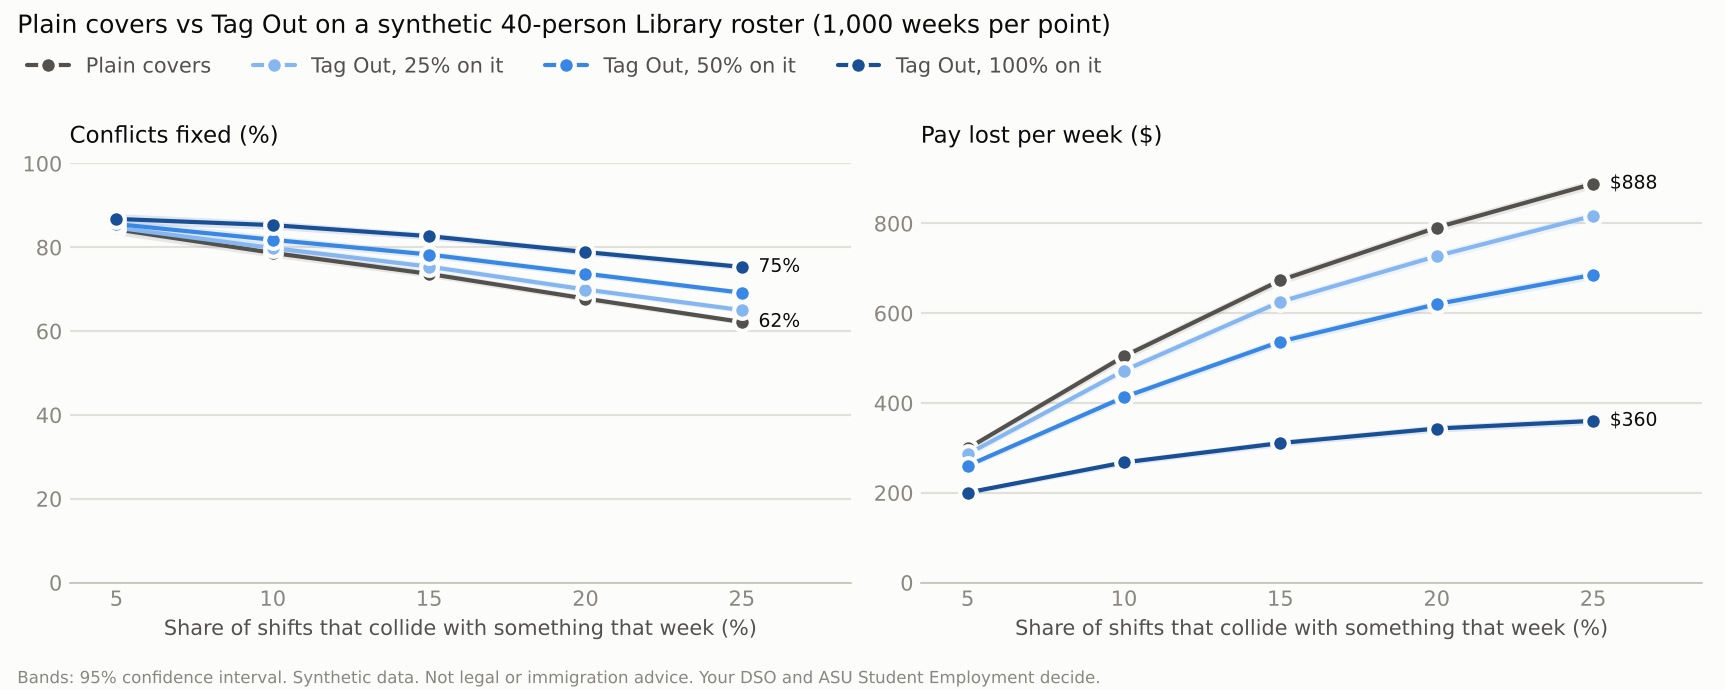
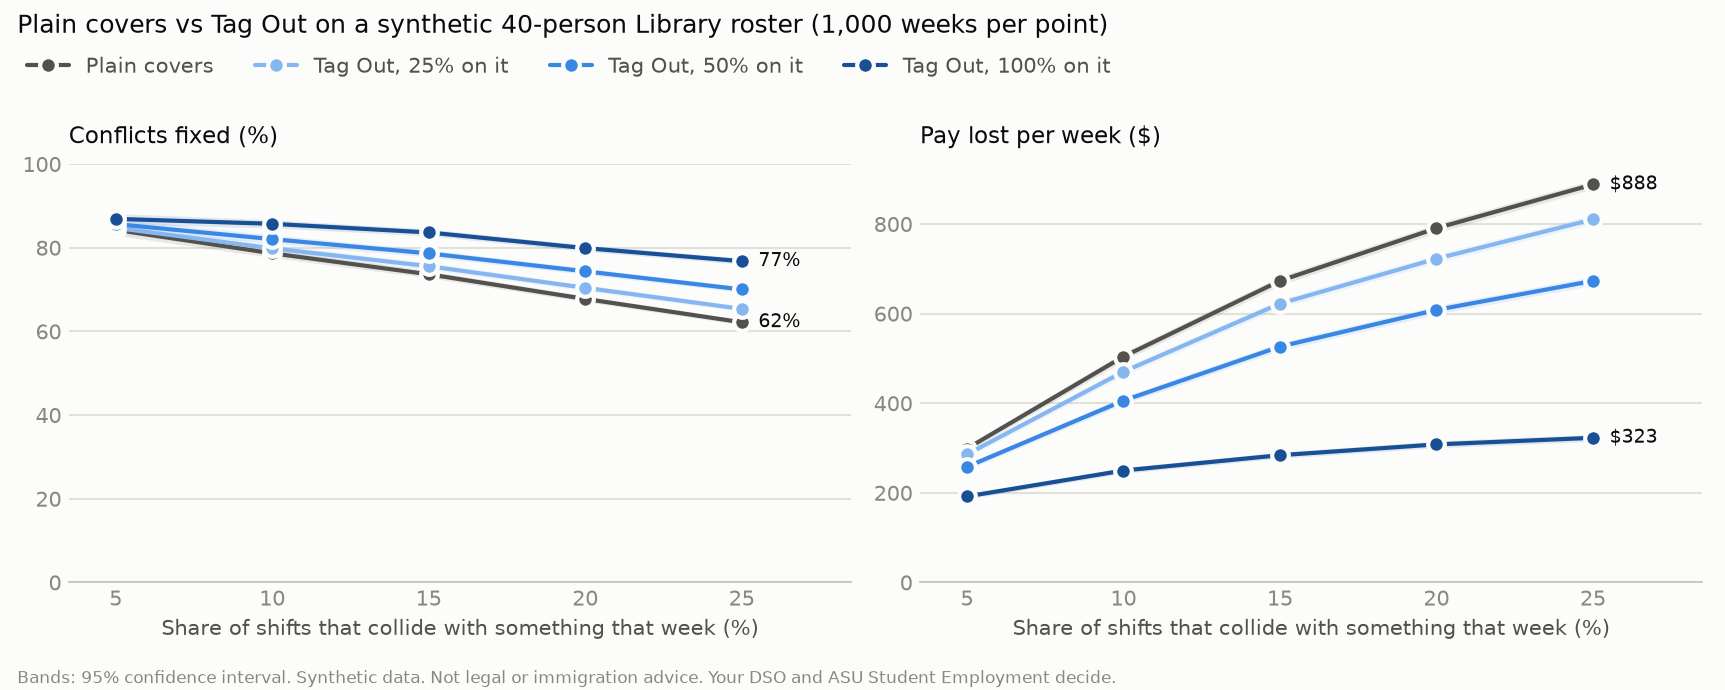
Standard TTC (passers leave with their shift) in broker and simulator; live timings; honest borderline go/no-go; simulation.json for the dashboard

diff --git a/sim/simulate.py b/sim/simulate.py
@@ -10,6 +10,7 @@ chains from broker/ttc.py, and every final schedule is re-checked with rulebook.
 from __future__ import annotations
 
 import argparse
+import json
 import os
 import random
 import statistics
@@ -55,7 +56,7 @@ class Params:
     fri_evening_avoid_share: float = 0.40  # task brief: 40% never take Friday-evening shifts
     wants_hours_share: float = 0.30  # task brief: 30% want more hours; only they act as cover helpers
     helper_extra_shifts: int | None = 2  # assumption: someone who wants hours takes at most 2 extra shifts a week
-    release_passers: bool = False  # broker/ttc.py as it is: ttc() stops at the first round where no ring closes
+    release_passers: bool = True  # broker/ttc.py: a passer keeps their shift and leaves; the rest re-point (standard TTC)
     conflict_rates: tuple[float, ...] = (0.05, 0.10, 0.15, 0.20, 0.25)  # task brief sweep
     central_rate: float = 0.15  # task brief: central conflict rate
     adoption: tuple[float, ...] = (0.25, 0.50, 1.00)  # task brief: share of the roster on Tag Out
@@ -231,14 +232,14 @@ def swap_prefs(plan: Plan, agents: list[str], cap: int | None) -> dict[str, list
     return prefs
 
 
-def rings(plan: Plan, agents: list[str], cap: int | None, release_passers: bool = False) -> Plan:
-    """broker.ttc.ttc over the picks. With release_passers, a shift whose holder passes is withdrawn and TTC runs
-    again on the rest (standard TTC with outside options); without it, one ttc() call, as the broker does today."""
+def rings(plan: Plan, agents: list[str], cap: int | None, release_passers: bool = True) -> Plan:
+    """broker.ttc.ttc over the picks. With release_passers (the broker's behaviour), a shift whose holder passes is
+    withdrawn and TTC runs again on the rest (standard TTC with outside options); without it, a single pass."""
     prefs = swap_prefs(plan, agents, cap)
     remaining = list(agents)
     while remaining:
         cycles, history = ttc({a: [b for b in prefs[a] if b in remaining] for a in remaining},
-                              {a: a for a in remaining})
+                              {a: a for a in remaining}, release_passers=False)  # this loop does the release
         for cyc in cycles:  # [a, b, c]: a's holder takes b, b's holder takes c, c's holder takes a
             moves = merge([(plan.holder[x], cyc[(j + 1) % len(cyc)], x) for j, x in enumerate(cyc)])
             if commit(plan, moves, cap):
@@ -274,7 +275,7 @@ def cover_chains(plan: Plan, adopters: set[str], cap: int | None) -> Plan:
 
 
 def tag_out(week: Week, adopters: set[str], cap: int | None, plain: Plan,
-            release_passers: bool = False) -> tuple[Plan, bool]:
+            release_passers: bool = True) -> tuple[Plan, bool]:
     """Rings first (nobody loses pay), then chains, then plain covers for whatever is left.
 
     The broker never proposes a plan worse than plain covers: if rings-first fixes fewer conflicts or loses more pay
@@ -536,7 +537,7 @@ def variants(p: Params) -> dict[str, Params]:
             "helpers take any number of shifts the rules allow": replace(p, helper_extra_shifts=None),
             "no clustering (every conflict is an individual event)": replace(p, clustered_share=0.0),
             "heavy clustering (80% of conflicts are shared exam evenings)": replace(p, clustered_share=0.8),
-            "broker withdraws passers' shifts and re-runs TTC": replace(p, release_passers=True)}
+            "single TTC pass (passers' shifts stay in the pool)": replace(p, release_passers=False)}
 
 
 def run_all(p: Params, weeks: int, seed: int, workers: int = 1) -> dict:
@@ -697,6 +698,18 @@ def report(p: Params, res: dict, weeks: int, seed: int, took: float, workers: in
                     "margin is thin." if ci_low < p.go_points else "")
                  + (" The margin depends on assumptions: changed one at a time, these push it under "
                     f"{p.go_points:g} points: " + "; ".join(under) + " (see Sensitivity)." if under else ""))
+    elif central["extra"][0] + central["extra"][1] >= p.go_points:
+        lo, hi = central["extra"][0] - central["extra"][1], central["extra"][0] + central["extra"][1]
+        L.append(f"**Go/no-go: borderline.** At a {rate} conflict rate with {adopt} of the roster on Tag Out, "
+                 f"rings and chains add {central['extra'][0]:.2f} percentage points over plain covers (95% CI "
+                 f"{lo:.1f} to {hi:.1f}). The {p.go_points:g}-point bar in docs/DESIGN.md section 7 sits inside "
+                 "that interval, so the simulation neither clears it nor misses it with confidence. "
+                 "Recommendation: lead with the Sunday check, plain covers and the pay that trades save (below), "
+                 "and present rings as the reason that pay is saved rather than as a bigger fix rate.")
+        L += ["", f"What rings and chains clearly change is pay: in the same scenario pay lost per week falls from "
+              f"${central['plain_pay'][0]:,.0f} to ${central['tag_pay'][0]:,.0f} ({pay_cut:.0f}% less), because a "
+              "swap fixes a conflict without anyone losing the shift. The points figure moves with the assumptions; "
+              f"changed one at a time (see Sensitivity): {moves}."]
     else:
         L.append(f"**Go/no-go: no-go on rings as the headline.** At a {rate} conflict rate with {adopt} of the "
                  f"roster on Tag Out, rings and chains add {central['extra'][0]:.1f} percentage points over plain "
@@ -792,9 +805,9 @@ def report(p: Params, res: dict, weeks: int, seed: int, took: float, workers: in
           "everyone in them would accept, before any covers. It is exhaustive, so it runs only in weeks with at "
           f"most {ORACLE_MAX_AGENTS} conflicted shifts on Tag Out ({adopt} adoption). TTC can also close rings "
           "longer than 4, so in a few weeks it can beat this bound. TTC follows each person's ranked picks "
-          "instead of maximising the count, and `ttc()` stops at the first round where nothing closes, so it "
-          "fixes fewer than the bound; the sensitivity row \"broker withdraws passers' shifts and re-runs TTC\" "
-          "shows how much of that gap a multi-round broker closes.", "",
+          "instead of maximising the count, so it can fix fewer than the bound; passers leave with their own "
+          "shift and the rest re-point (standard TTC with outside options). The sensitivity row \"single TTC "
+          "pass\" shows what that release is worth.", "",
           "| Conflict rate | Weeks with the bound | TTC ring fixes / week | Best rings of <= 4 / week |",
           "|---|---|---|---|"]
     for r in p.conflict_rates:
@@ -876,6 +889,17 @@ def main() -> None:
     plot(p, res, args.weeks)
     DOC.write_text(report(p, res, args.weeks, args.seed, took, args.workers), encoding="utf-8")
     c = summary(res["cells"][p.central_rate], 1.0)
+    b = res["break"]
+    winter = {k: mean_ci([row[k] for row in b])[0] for k in ("wanted", "handed", "kept", "unchecked_breaks")}
+    (DOC.parent / "simulation.json").write_text(json.dumps({
+        "weeks": args.weeks, "seed": args.seed, "roster": 40, "conflict_rate": p.central_rate,
+        "plain_pct": round(c["plain"][0], 1), "tagout_pct": round(c["tag"][0], 1),
+        "extra_points": round(c["extra"][0], 1), "extra_ci": round(c["extra"][1], 1),
+        "plain_pay_lost": round(c["plain_pay"][0]), "tagout_pay_lost": round(c["tag_pay"][0]),
+        "winter": {"wanted": round(winter["wanted"], 1), "handed": round(winter["handed"], 1),
+                   "kept": round(winter["kept"]), "rule_breaks": sum(row["problems"] for row in b),
+                   "unchecked_breaks": round(winter["unchecked_breaks"], 2)},
+    }, indent=1), encoding="utf-8")
     print(f"plain covers {c['plain'][0]:.1f}%, Tag Out {c['tag'][0]:.1f}%, +{c['extra'][0]:.1f} points "
           f"({took:.0f} s) -> {DOC.relative_to(ROOT)}, {IMG.relative_to(ROOT)}")
 

diff --git a/broker/ttc.py b/broker/ttc.py
@@ -45,11 +45,14 @@ def ttc(
     prefs: Mapping[str, list[str]],
     owner_of: Mapping[str, str],
     picker: Callable[[str, set[str]], str | None] | None = None,
+    release_passers: bool = True,
 ) -> tuple[list[list[str]], list[dict[str, str | None]]]:
-    """Run TTC rounds until no new cycle closes.
+    """Run TTC rounds until nothing more can close.
 
     `prefs[a]` is a's ranked list of acceptable items (used when no `picker` is given). `picker(a, open_items)`
-    lets a live mascot answer each round itself. Returns (cycles, the picks of every round).
+    lets a live mascot answer each round itself. With `release_passers` (standard TTC with outside options), an
+    agent who passes keeps their own shift and leaves, so whoever pointed at it can re-point next round.
+    Returns (cycles, the picks of every round).
     """
     active = {a for a in prefs if any(o == a for o in owner_of.values())}
     open_items = {i for i, o in owner_of.items() if o in active}
@@ -66,7 +69,12 @@ def ttc(
         history.append(points)
         found = find_cycles(points, owner_of)
         if not found:
-            break
+            passers = {a for a, i in points.items() if i is None}
+            if not release_passers or not passers or passers == active:
+                break
+            active -= passers
+            open_items -= {i for i, o in owner_of.items() if o in passers}
+            continue
         for cyc in found:
             cycles.append(cyc)
             for a in cyc:

diff --git a/broker/app.py b/broker/app.py
@@ -143,6 +143,15 @@ def create_app(net: Net | None = None, reg: dict | None = None, timing: Timing |
             await net.post(f"{reg['steward']}/admin/auto", body)
         return {"ok": True}
 
+    @app.post("/admin/timing")
+    async def set_timing(body: dict) -> dict:
+        if not debug():
+            raise HTTPException(403)
+        for k in ("pick_deadline", "ask_window", "vote_timeout", "between"):
+            if k in body:
+                setattr(engine.timing, k, float(body[k]))
+        return engine.timing.__dict__
+
     @app.get("/admin/judge")
     async def judge() -> dict:
         if not debug():
@@ -190,7 +199,9 @@ def create_app(net: Net | None = None, reg: dict | None = None, timing: Timing |
 
 
 def _timing_from_env() -> Timing:
-    return Timing.fast() if os.environ.get("TAGOUT_FAST") == "1" else Timing()
+    if os.environ.get("TAGOUT_FAST") == "1":
+        return Timing.fast()
+    return Timing.live() if os.environ.get("TAGOUT_MODE") == "live" else Timing()
 
 
 app = create_app(timing=_timing_from_env()) if os.environ.get("TAGOUT_ROLE") == "broker" else None

diff --git a/tests/test_flow.py b/tests/test_flow.py
@@ -44,8 +44,12 @@ async def test_week_ring_cover_and_honest_open_shift(system):
     assert "counter_window" in types, "round 1 found no cycle; the counter-offer round closed it"
     ask = [m for m in system.phone("ana") if m["kind"] == "ask"]
     assert ask and "gym" in ask[0]["text"]
-    picks = [e for e in system.bus.history if e["type"] == "picks" and e["phase"] == "swap"]
-    assert picks[0]["picks"]["ana"] is None and picks[1]["picks"]["ana"] == "library-fri-1030-1000"
+    picks = [e["picks"] for e in system.bus.history if e["type"] == "picks" and e["phase"] == "swap"]
+    ana = [pk["ana"] for pk in picks if "ana" in pk]
+    assert ana[0] is None and ana[-1] == "library-fri-1030-1000", "passed first, counter-offered after asking"
+    window = next(i for i, e in enumerate(system.bus.history) if e["type"] == "counter_window")
+    cycle = next(i for i, e in enumerate(system.bus.history) if e["type"] == "cycle")
+    assert window < cycle
 
     ben = next(m for m in system.phone("ben") if m["kind"] == "confirm")
     assert "17 of your 20 hours" in ben["text"]

diff --git a/broker/engine.py b/broker/engine.py
@@ -42,6 +42,11 @@ class Timing:
     def fast(cls) -> Timing:
         return cls(0.0, 0.05, 5.0, 0.0)
 
+    @classmethod
+    def live(cls) -> Timing:
+        """Real people: a minute to answer their mascot's question, five minutes to confirm."""
+        return cls(2.0, 60.0, 300.0, 1.0)
+
 
 @dataclass
 class Txn:
@@ -130,7 +135,14 @@ class Engine:
             found = find_cycles(picks, items)
             it += 1
             if not found:
-                return cycles, it
+                # standard TTC: a passer keeps their own shift and leaves; whoever pointed at it re-points
+                passers = {a for a, i in picks.items() if i is None}
+                if not passers or passers == active:
+                    return cycles, it
+                self.bus.emit("released", round_id=round_id, agents=sorted(passers))
+                for a in passers:
+                    items.pop(item_of[a], None)
+                continue
             for c in found:
                 cycles.append(c)
                 self.bus.emit("cycle", round_id=round_id, members=c,

diff --git a/docs/SIMULATION.md b/docs/SIMULATION.md
@@ -1,13 +1,13 @@
 # Simulation: plain covers vs Tag Out rings and chains
 
-**Go/no-go: no-go on rings as the headline.** At a 15% conflict rate with 100% of the roster on Tag Out, rings and chains add 9.0 percentage points over plain covers (95% CI ± 0.5), under the 10-point bar in docs/DESIGN.md section 7. Recommendation: lead with "Sunday check + plain covers + Winter Break Handoff" and show rings as a bonus.
+**Go/no-go: borderline.** At a 15% conflict rate with 100% of the roster on Tag Out, rings and chains add 10.00 percentage points over plain covers (95% CI 9.5 to 10.5). The 10-point bar in docs/DESIGN.md section 7 sits inside that interval, so the simulation neither clears it nor misses it with confidence. Recommendation: lead with the Sunday check, plain covers and the pay that trades save (below), and present rings as the reason that pay is saved rather than as a bigger fix rate.
 
-What rings and chains do change is pay: in the same scenario pay lost per week falls from $673 to $311 (54% less), because a swap fixes a conflict without anyone losing the shift. The points figure moves with the assumptions; changed one at a time (see Sensitivity): helpers take at most 1 extra shift: 17.9; helpers take any number of shifts the rules allow: 7.3; no clustering (every conflict is an individual event): 4.4; heavy clustering (80% of conflicts are shared exam evenings): 9.1; broker withdraws passers' shifts and re-runs TTC: 10.0.
+What rings and chains clearly change is pay: in the same scenario pay lost per week falls from $673 to $284 (58% less), because a swap fixes a conflict without anyone losing the shift. The points figure moves with the assumptions; changed one at a time (see Sensitivity): helpers take at most 1 extra shift: 19.5; helpers take any number of shifts the rules allow: 8.2; no clustering (every conflict is an individual event): 4.5; heavy clustering (80% of conflicts are shared exam evenings): 11.3; single TTC pass (passers' shifts stay in the pool): 9.0.
 
-- Typical case (15% conflicts, 100% adoption, 1,000 weeks): plain covers fix 73.7% ± 0.9 of conflicts; Tag Out fixes 82.7% ± 0.9; rings and chains add 9.0 points ± 0.5. Pay lost per week drops from $673 ± 10 to $311 ± 8.
+- Typical case (15% conflicts, 100% adoption, 1,000 weeks): plain covers fix 73.7% ± 0.9 of conflicts; Tag Out fixes 83.7% ± 0.8; rings and chains add 10.0 points ± 0.5. Pay lost per week drops from $673 ± 10 to $284 ± 7.
 - Worst case, same scenario: in at least 1 week in 20, rings and chains add nothing. Tag Out never fixes fewer than plain covers, because the broker keeps the plain-cover plan when that plan is better.
-- Worst case in the whole sweep: 5% conflicts with 25% adoption, where rings and chains add 0.4 points ± 0.1. At 15% conflicts with only 25% of the roster on Tag Out they add 1.7 points ± 0.2: rings need most of a roster on board.
-- Pitch line (synthetic): "In our simulation of a 40-person roster, plain covers fixed 74% of conflicts; trades fixed 9 percentage points more, and students lost 54% less pay."
+- Worst case in the whole sweep: 5% conflicts with 25% adoption, where rings and chains add 0.5 points ± 0.2. At 15% conflicts with only 25% of the roster on Tag Out they add 1.9 points ± 0.2: rings need most of a roster on board.
+- Pitch line (synthetic): "In our simulation of a 40-person roster, plain covers fixed 74% of conflicts; trades fixed 10 percentage points more, and students lost 58% less pay."
 
 ![Conflicts fixed and pay lost by conflict rate and adoption](img/simulation.png)
 
@@ -17,21 +17,21 @@ Mean ± 95% confidence interval over the simulated weeks, as a share of each wee
 
 | Conflict rate (measured) | Conflicts / week | On Tag Out | Plain covers fix | Tag Out fixes | Extra (points) | Fixed by a ring | Fixed by a chain |
 |---|---|---|---|---|---|---|---|
-| 5% (5.1%) | 6.1 | 25% | 84.3% ± 1.3 | 84.7% ± 1.3 | 0.4 ± 0.1 | 2.6% ± 0.5 | 1.9% ± 0.5 |
-| 5% (5.1%) | 6.1 | 50% | 84.3% ± 1.3 | 85.5% ± 1.3 | 1.3 ± 0.3 | 8.2% ± 1.0 | 6.5% ± 0.9 |
-| 5% (5.1%) | 6.1 | 100% | 84.3% ± 1.3 | 86.8% ± 1.3 | 2.5 ± 0.4 | 20.5% ± 1.6 | 17.7% ± 1.5 |
-| 10% (10.1%) | 12.1 | 25% | 78.7% ± 1.0 | 79.8% ± 1.0 | 1.2 ± 0.2 | 5.1% ± 0.6 | 2.6% ± 0.4 |
-| 10% (10.1%) | 12.1 | 50% | 78.7% ± 1.0 | 81.8% ± 1.0 | 3.1 ± 0.3 | 14.0% ± 0.9 | 8.9% ± 0.8 |
-| 10% (10.1%) | 12.1 | 100% | 78.7% ± 1.0 | 85.3% ± 1.0 | 6.6 ± 0.5 | 32.4% ± 1.3 | 24.1% ± 1.3 |
-| 15% (15.2%) | 18.1 | 25% | 73.7% ± 0.9 | 75.4% ± 0.8 | 1.7 ± 0.2 | 6.1% ± 0.5 | 2.7% ± 0.4 |
-| 15% (15.2%) | 18.1 | 50% | 73.7% ± 0.9 | 78.3% ± 0.9 | 4.6 ± 0.3 | 16.3% ± 0.8 | 9.2% ± 0.6 |
-| 15% (15.2%) | 18.1 | 100% | 73.7% ± 0.9 | 82.7% ± 0.9 | 9.0 ± 0.5 | 37.9% ± 1.1 | 23.2% ± 1.0 |
-| 20% (20.0%) | 23.9 | 25% | 67.8% ± 0.7 | 69.9% ± 0.7 | 2.2 ± 0.2 | 6.5% ± 0.4 | 2.8% ± 0.3 |
-| 20% (20.0%) | 23.9 | 50% | 67.8% ± 0.7 | 73.7% ± 0.8 | 5.9 ± 0.3 | 17.1% ± 0.7 | 9.6% ± 0.6 |
-| 20% (20.0%) | 23.9 | 100% | 67.8% ± 0.7 | 78.9% ± 0.8 | 11.1 ± 0.5 | 38.8% ± 0.9 | 22.8% ± 0.9 |
-| 25% (25.0%) | 29.7 | 25% | 62.2% ± 0.6 | 65.0% ± 0.6 | 2.8 ± 0.2 | 6.7% ± 0.4 | 2.9% ± 0.3 |
-| 25% (25.0%) | 29.7 | 50% | 62.2% ± 0.6 | 69.2% ± 0.7 | 7.0 ± 0.3 | 17.6% ± 0.6 | 9.6% ± 0.5 |
-| 25% (25.0%) | 29.7 | 100% | 62.2% ± 0.6 | 75.3% ± 0.8 | 13.1 ± 0.5 | 38.2% ± 0.8 | 23.2% ± 0.8 |
+| 5% (5.1%) | 6.1 | 25% | 84.3% ± 1.3 | 84.7% ± 1.3 | 0.5 ± 0.2 | 2.8% ± 0.6 | 1.7% ± 0.5 |
+| 5% (5.1%) | 6.1 | 50% | 84.3% ± 1.3 | 85.7% ± 1.3 | 1.4 ± 0.3 | 10.1% ± 1.1 | 4.7% ± 0.8 |
+| 5% (5.1%) | 6.1 | 100% | 84.3% ± 1.3 | 86.9% ± 1.3 | 2.6 ± 0.4 | 27.9% ± 1.7 | 9.5% ± 1.1 |
+| 10% (10.1%) | 12.1 | 25% | 78.7% ± 1.0 | 79.9% ± 1.0 | 1.2 ± 0.2 | 5.8% ± 0.6 | 1.9% ± 0.4 |
+| 10% (10.1%) | 12.1 | 50% | 78.7% ± 1.0 | 82.0% ± 1.0 | 3.4 ± 0.3 | 17.8% ± 1.0 | 5.5% ± 0.6 |
+| 10% (10.1%) | 12.1 | 100% | 78.7% ± 1.0 | 85.7% ± 1.0 | 7.1 ± 0.5 | 43.8% ± 1.3 | 11.8% ± 0.8 |
+| 15% (15.2%) | 18.1 | 25% | 73.7% ± 0.9 | 75.6% ± 0.8 | 1.9 ± 0.2 | 7.3% ± 0.5 | 1.9% ± 0.3 |
+| 15% (15.2%) | 18.1 | 50% | 73.7% ± 0.9 | 78.6% ± 0.8 | 5.0 ± 0.3 | 20.6% ± 0.8 | 5.4% ± 0.5 |
+| 15% (15.2%) | 18.1 | 100% | 73.7% ± 0.9 | 83.7% ± 0.8 | 10.0 ± 0.5 | 50.1% ± 0.9 | 11.7% ± 0.7 |
+| 20% (20.0%) | 23.9 | 25% | 67.8% ± 0.7 | 70.4% ± 0.7 | 2.7 ± 0.2 | 8.2% ± 0.5 | 1.8% ± 0.2 |
+| 20% (20.0%) | 23.9 | 50% | 67.8% ± 0.7 | 74.4% ± 0.8 | 6.6 ± 0.4 | 22.1% ± 0.7 | 5.3% ± 0.4 |
+| 20% (20.0%) | 23.9 | 100% | 67.8% ± 0.7 | 79.9% ± 0.8 | 12.1 ± 0.5 | 50.6% ± 0.8 | 12.1% ± 0.7 |
+| 25% (25.0%) | 29.7 | 25% | 62.2% ± 0.6 | 65.4% ± 0.6 | 3.2 ± 0.2 | 8.4% ± 0.4 | 1.7% ± 0.2 |
+| 25% (25.0%) | 29.7 | 50% | 62.2% ± 0.6 | 70.0% ± 0.7 | 7.8 ± 0.4 | 22.7% ± 0.6 | 5.3% ± 0.4 |
+| 25% (25.0%) | 29.7 | 100% | 62.2% ± 0.6 | 76.8% ± 0.7 | 14.6 ± 0.5 | 49.8% ± 0.7 | 13.4% ± 0.6 |
 
 ## Pay lost and rule breaks
 
@@ -40,20 +40,20 @@ Pay lost is what students lose when their shift moves to someone else and they t
 | Conflict rate | On Tag Out | Pay lost / week, plain covers | Pay lost / week, Tag Out | Rule breaks prevented / week | Weeks Tag Out kept the plain plan |
 |---|---|---|---|---|---|
 | 5% | 25% | $299 ± 8 | $286 ± 7 | 0.12 ± 0.02 | 32 of 1000 |
-| 5% | 50% | $299 ± 8 | $260 ± 7 | 0.23 ± 0.03 | 31 of 1000 |
-| 5% | 100% | $299 ± 8 | $201 ± 6 | 0.49 ± 0.05 | 11 of 1000 |
-| 10% | 25% | $504 ± 9 | $472 ± 9 | 0.26 ± 0.04 | 66 of 1000 |
-| 10% | 50% | $504 ± 9 | $413 ± 8 | 0.50 ± 0.05 | 44 of 1000 |
-| 10% | 100% | $504 ± 9 | $268 ± 7 | 1.04 ± 0.07 | 11 of 1000 |
-| 15% | 25% | $673 ± 10 | $625 ± 10 | 0.37 ± 0.05 | 93 of 1000 |
-| 15% | 50% | $673 ± 10 | $537 ± 9 | 0.71 ± 0.07 | 50 of 1000 |
-| 15% | 100% | $673 ± 10 | $311 ± 8 | 1.47 ± 0.09 | 10 of 1000 |
-| 20% | 25% | $791 ± 10 | $727 ± 10 | 0.47 ± 0.05 | 106 of 1000 |
-| 20% | 50% | $791 ± 10 | $620 ± 10 | 0.91 ± 0.07 | 42 of 1000 |
-| 20% | 100% | $791 ± 10 | $343 ± 8 | 1.85 ± 0.10 | 5 of 1000 |
-| 25% | 25% | $888 ± 10 | $817 ± 10 | 0.56 ± 0.06 | 84 of 1000 |
-| 25% | 50% | $888 ± 10 | $685 ± 10 | 1.06 ± 0.08 | 25 of 1000 |
-| 25% | 100% | $888 ± 10 | $360 ± 8 | 2.23 ± 0.12 | 0 of 1000 |
+| 5% | 50% | $299 ± 8 | $258 ± 7 | 0.23 ± 0.03 | 28 of 1000 |
+| 5% | 100% | $299 ± 8 | $192 ± 6 | 0.49 ± 0.05 | 9 of 1000 |
+| 10% | 25% | $504 ± 9 | $470 ± 9 | 0.26 ± 0.04 | 63 of 1000 |
+| 10% | 50% | $504 ± 9 | $406 ± 8 | 0.50 ± 0.05 | 36 of 1000 |
+| 10% | 100% | $504 ± 9 | $250 ± 7 | 1.04 ± 0.07 | 11 of 1000 |
+| 15% | 25% | $673 ± 10 | $622 ± 9 | 0.37 ± 0.05 | 91 of 1000 |
+| 15% | 50% | $673 ± 10 | $526 ± 9 | 0.71 ± 0.07 | 51 of 1000 |
+| 15% | 100% | $673 ± 10 | $284 ± 7 | 1.47 ± 0.09 | 4 of 1000 |
+| 20% | 25% | $791 ± 10 | $723 ± 10 | 0.47 ± 0.05 | 93 of 1000 |
+| 20% | 50% | $791 ± 10 | $608 ± 9 | 0.91 ± 0.07 | 35 of 1000 |
+| 20% | 100% | $791 ± 10 | $308 ± 8 | 1.85 ± 0.10 | 4 of 1000 |
+| 25% | 25% | $888 ± 10 | $810 ± 10 | 0.56 ± 0.06 | 74 of 1000 |
+| 25% | 50% | $888 ± 10 | $673 ± 10 | 1.06 ± 0.08 | 15 of 1000 |
+| 25% | 100% | $888 ± 10 | $323 ± 8 | 2.23 ± 0.12 | 0 of 1000 |
 
 Every final schedule in every plan was re-checked with `rulebook.rules.evaluate` and against each student's raw busy blocks: 0 accepted moves broke a limit or double-booked anyone.
 
@@ -75,17 +75,17 @@ Over the whole 4-week break that is about 138 shifts handed off and $8,861 kept 
 
 ## TTC compared with the best possible rings
 
-`sim/oracle.py` (`max_conflicts_solved`) searches every set of disjoint rings of up to 4 shifts that everyone in them would accept, before any covers. It is exhaustive, so it runs only in weeks with at most 10 conflicted shifts on Tag Out (100% adoption). TTC can also close rings longer than 4, so in a few weeks it can beat this bound. TTC follows each person's ranked picks instead of maximising the count, and `ttc()` stops at the first round where nothing closes, so it fixes fewer than the bound; the sensitivity row "broker withdraws passers' shifts and re-runs TTC" shows how much of that gap a multi-round broker closes.
+`sim/oracle.py` (`max_conflicts_solved`) searches every set of disjoint rings of up to 4 shifts that everyone in them would accept, before any covers. It is exhaustive, so it runs only in weeks with at most 10 conflicted shifts on Tag Out (100% adoption). TTC can also close rings longer than 4, so in a few weeks it can beat this bound. TTC follows each person's ranked picks instead of maximising the count, so it can fix fewer than the bound; passers leave with their own shift and the rest re-point (standard TTC with outside options). The sensitivity row "single TTC pass" shows what that release is worth.
 
 | Conflict rate | Weeks with the bound | TTC ring fixes / week | Best rings of <= 4 / week |
 |---|---|---|---|
-| 5% | 964 of 1,000 | 1.30 ± 0.11 | 2.13 ± 0.14 |
-| 10% | 324 of 1,000 | 2.45 ± 0.23 | 4.26 ± 0.29 |
-| 15% | 21 of 1,000 | 2.29 ± 0.59 | 4.19 ± 1.04 |
+| 5% | 964 of 1,000 | 1.78 ± 0.12 | 2.13 ± 0.14 |
+| 10% | 324 of 1,000 | 3.24 ± 0.22 | 4.26 ± 0.29 |
+| 15% | 21 of 1,000 | 3.05 ± 0.77 | 4.19 ± 1.04 |
 | 20% | 0 of 1,000 | - | - |
 | 25% | 1 of 1,000 | 6.00 ± 0.00 | 6.00 ± 0.00 |
 
-Ring sizes at 15% conflicts, 100% adoption: 2 people: 1,581, 3 people: 635, 4 people: 309, 5 people: 77, 6 people: 31, 7 people: 7, 8 people: 1 (4% longer than 4).
+Ring sizes at 15% conflicts, 100% adoption: 2 people: 2,306, 3 people: 828, 4 people: 348, 5 people: 81, 6 people: 31, 7 people: 7, 8 people: 1 (3% longer than 4).
 
 ## Sensitivity
 
@@ -93,12 +93,12 @@ Each row changes one assumption, at 15% conflicts and 100% adoption, same seeds.
 
 | Change | Plain covers fix | Tag Out fixes | Extra (points) |
 |---|---|---|---|
-| none (the model above) | 73.7% ± 0.9 | 82.7% ± 0.9 | 9.0 ± 0.5 |
-| helpers take at most 1 extra shift | 62.1% ± 0.8 | 80.0% ± 0.9 | 17.9 ± 0.7 |
-| helpers take any number of shifts the rules allow | 75.5% ± 0.9 | 82.8% ± 0.9 | 7.3 ± 0.4 |
-| no clustering (every conflict is an individual event) | 94.6% ± 0.4 | 99.0% ± 0.2 | 4.4 ± 0.4 |
-| heavy clustering (80% of conflicts are shared exam evenings) | 52.0% ± 1.1 | 61.0% ± 1.3 | 9.1 ± 0.5 |
-| broker withdraws passers' shifts and re-runs TTC | 73.7% ± 0.9 | 83.7% ± 0.8 | 10.0 ± 0.5 |
+| none (the model above) | 73.7% ± 0.9 | 83.7% ± 0.8 | 10.0 ± 0.5 |
+| helpers take at most 1 extra shift | 62.1% ± 0.8 | 81.6% ± 0.8 | 19.5 ± 0.7 |
+| helpers take any number of shifts the rules allow | 75.5% ± 0.9 | 83.7% ± 0.8 | 8.2 ± 0.5 |
+| no clustering (every conflict is an individual event) | 94.6% ± 0.4 | 99.0% ± 0.2 | 4.5 ± 0.4 |
+| heavy clustering (80% of conflicts are shared exam evenings) | 52.0% ± 1.1 | 63.2% ± 1.3 | 11.3 ± 0.5 |
+| single TTC pass (passers' shifts stay in the pool) | 73.7% ± 0.9 | 82.7% ± 0.9 | 9.0 ± 0.5 |
 
 ## How one week is played
 
@@ -133,7 +133,7 @@ All parameters live in one dataclass, `Params`, at the top of `sim/simulate.py`.
 | `fri_evening_avoid_share` | 0.4 | task brief: 40% never take Friday-evening shifts |
 | `wants_hours_share` | 0.3 | task brief: 30% want more hours; only they act as cover helpers |
 | `helper_extra_shifts` | 2 | assumption: someone who wants hours takes at most 2 extra shifts a week |
-| `release_passers` | False | broker/ttc.py as it is: ttc() stops at the first round where no ring closes |
+| `release_passers` | True | broker/ttc.py: a passer keeps their shift and leaves; the rest re-point (standard TTC) |
 | `conflict_rates` | (0.05, 0.1, 0.15, 0.2, 0.25) | task brief sweep |
 | `central_rate` | 0.15 | task brief: central conflict rate |
 | `adoption` | (0.25, 0.5, 1.0) | task brief: share of the roster on Tag Out |
@@ -156,7 +156,7 @@ Limits of this model:
 python -m sim.simulate --weeks 1000 --seed 7
 ```
 
-1,000 weeks per cell, seed 7, 4 worker processes, 145 s. Every week is seeded on its own, so the numbers do not depend on the worker count.
+1,000 weeks per cell, seed 7, 6 worker processes, 100 s. Every week is seeded on its own, so the numbers do not depend on the worker count.
 
 ---
 
